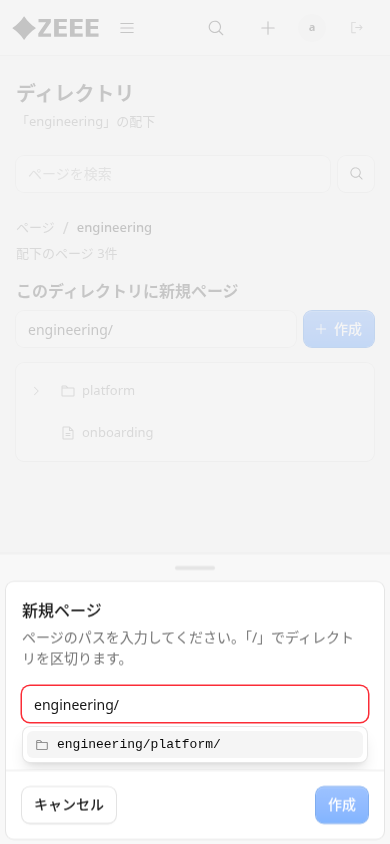
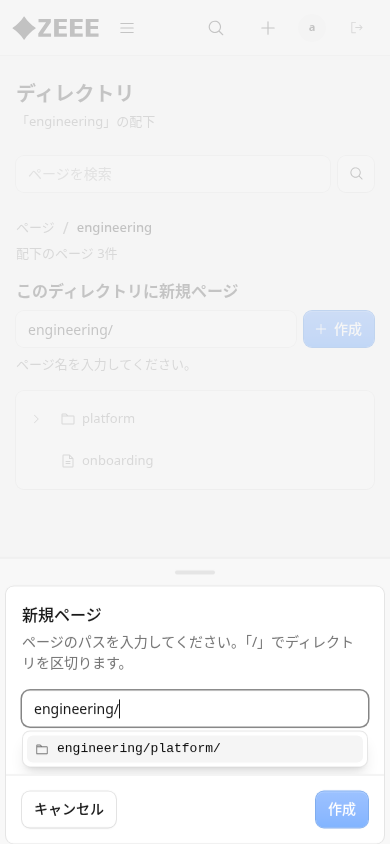
fix: avoid initial path validation error in create dialog

diff --git a/src/components/PagePathCreateForm.tsx b/src/components/PagePathCreateForm.tsx
@@ -1,4 +1,4 @@
-import { useEffect, useId, useState, type FormEvent } from 'react';
+import { useEffect, useId, useMemo, useState, type FormEvent } from 'react';
 import { useRouter } from '@void/react';
 import { Button, Text } from '@cloudflare/kumo';
 import { PlusIcon } from '@phosphor-icons/react';
@@ -25,23 +25,30 @@ export function PagePathCreateForm({
 }: Props) {
   const router = useRouter();
   const errorId = useId();
+  const hintId = useId();
   const [title, setTitle] = useState(defaultValue);
   const [busy, setBusy] = useState(false);
   const [error, setError] = useState('');
+  const [dirty, setDirty] = useState(false);
+  const [submitted, setSubmitted] = useState(false);
+  const validation = useMemo(
+    () => (title.trim() ? validatePagePath(title, pages) : null),
+    [title, pages],
+  );
 
   useEffect(() => {
     setTitle(defaultValue);
     setError('');
+    setDirty(false);
+    setSubmitted(false);
   }, [defaultValue]);
 
   async function submit(event: FormEvent<HTMLFormElement>) {
     event.preventDefault();
     if (busy) return;
+    setSubmitted(true);
     const validation = validatePagePath(title, pages);
-    if (!validation.ok) {
-      setError(validation.message);
-      return;
-    }
+    if (!validation.ok) return;
     setBusy(true);
     setError('');
     const result = await createPageByPath(validation.path);
@@ -52,6 +59,15 @@ export function PagePathCreateForm({
     }
     void router.visit(`/pages/${result.id}`);
   }
+
+  const showValidation = dirty || submitted;
+  const visibleError =
+    error || (showValidation && validation && !validation.ok ? validation.message : '');
+  const hint =
+    !visibleError && !dirty && !submitted && title.trim().endsWith('/')
+      ? 'ページ名を入力してください。'
+      : '';
+  const descriptionId = visibleError ? errorId : hint ? hintId : undefined;
 
   return (
     <form
@@ -65,6 +81,7 @@ export function PagePathCreateForm({
           value={title}
           onChange={(value) => {
             setTitle(value);
+            setDirty(true);
             if (error) setError('');
           }}
           pages={pages}
@@ -74,17 +91,21 @@ export function PagePathCreateForm({
           required
           maxLength={200}
           autoFocus={autoFocus}
-          invalid={Boolean(error)}
-          errorId={errorId}
+          invalid={Boolean(visibleError)}
+          errorId={descriptionId}
           className="min-w-0 flex-1"
         />
         <Button type="submit" variant="primary" icon={<PlusIcon size={14} />} loading={busy}>
           {submitLabel}
         </Button>
       </div>
-      {error ? (
+      {visibleError ? (
         <Text id={errorId} variant="error" size="sm" role="alert">
-          {error}
+          {visibleError}
+        </Text>
+      ) : hint ? (
+        <Text id={hintId} variant="secondary" size="sm">
+          {hint}
         </Text>
       ) : null}
     </form>

diff --git a/src/components/CreatePageDialog.tsx b/src/components/CreatePageDialog.tsx
@@ -16,10 +16,13 @@ export function CreatePageDialog({ open, onOpenChange, pages, initialDirectory =
   const router = useRouter();
   const formId = useId();
   const errorId = useId();
+  const hintId = useId();
   const inputRef = useRef<HTMLInputElement>(null);
   const [title, setTitle] = useState('');
   const [busy, setBusy] = useState(false);
   const [error, setError] = useState('');
+  const [dirty, setDirty] = useState(false);
+  const [submitted, setSubmitted] = useState(false);
   const validation = useMemo(
     () => (title.trim() ? validatePagePath(title, pages) : null),
     [title, pages],
@@ -30,12 +33,15 @@ export function CreatePageDialog({ open, onOpenChange, pages, initialDirectory =
     setTitle(initialPagePath(initialDirectory));
     setBusy(false);
     setError('');
+    setDirty(false);
+    setSubmitted(false);
     const timer = window.setTimeout(() => inputRef.current?.focus(), 0);
     return () => window.clearTimeout(timer);
   }, [open, initialDirectory]);
 
   async function createPage() {
     if (busy) return;
+    setSubmitted(true);
     const result = validatePagePath(title, pages);
     if (!result.ok) {
       setError(result.message);
@@ -53,7 +59,14 @@ export function CreatePageDialog({ open, onOpenChange, pages, initialDirectory =
     void router.visit(`/pages/${created.id}`);
   }
 
-  const visibleError = error || (validation && !validation.ok ? validation.message : '');
+  const showValidation = dirty || submitted;
+  const visibleError =
+    error || (showValidation && validation && !validation.ok ? validation.message : '');
+  const hint =
+    !visibleError && !dirty && !submitted && title.trim().endsWith('/')
+      ? 'ページ名を入力してください。'
+      : '';
+  const descriptionId = visibleError ? errorId : hint ? hintId : undefined;
 
   return (
     <LayerDialog.Root
@@ -82,6 +95,7 @@ export function CreatePageDialog({ open, onOpenChange, pages, initialDirectory =
               value={title}
               onChange={(value) => {
                 setTitle(value);
+                setDirty(true);
                 if (error) setError('');
               }}
               pages={pages}
@@ -90,11 +104,15 @@ export function CreatePageDialog({ open, onOpenChange, pages, initialDirectory =
               required
               maxLength={200}
               invalid={Boolean(visibleError)}
-              errorId={visibleError ? errorId : undefined}
+              errorId={descriptionId}
             />
             {visibleError ? (
               <Text id={errorId} variant="error" size="sm" role="alert">
                 {visibleError}
+              </Text>
+            ) : hint ? (
+              <Text id={hintId} variant="secondary" size="sm">
+                {hint}
               </Text>
             ) : null}
           </form>

diff --git a/tests/pagePathUi.test.ts b/tests/pagePathUi.test.ts
@@ -3,6 +3,7 @@ import { renderToStaticMarkup } from 'react-dom/server';
 import { describe, expect, it, vi } from 'vite-plus/test';
 import { PathSuggestionListbox, PagePathInput } from '../src/components/PagePathInput';
 import { PagePathBreadcrumb } from '../src/components/PagePathBreadcrumb';
+import { PagePathCreateForm } from '../src/components/PagePathCreateForm';
 import { PageTree } from '../src/components/PageTree';
 import { directorySuggestions, type PagePathPage } from '../src/shared/pagePath';
 
@@ -18,6 +19,7 @@ vi.mock('@void/react', async () => {
       children?: ReactNode;
       [key: string]: unknown;
     }) => h('a', { href, ...props }, children),
+    useRouter: () => ({ visit: () => {} }),
   };
 });
 
@@ -74,6 +76,34 @@ describe('PagePathBreadcrumb UI', () => {
     expect(html).toContain('href="/?dir=a%2Fb"');
     expect(html).toContain('aria-current="page"');
     expect(html).toContain('>c</span>');
+  });
+});
+
+describe('PagePathCreateForm UI', () => {
+  it('shows a neutral hint instead of an error for an untouched directory path', () => {
+    const html = renderToStaticMarkup(
+      createElement(PagePathCreateForm, {
+        pages: [page('p1', 'engineering/platform/api')],
+        defaultValue: 'engineering/platform/',
+        ariaLabel: 'このディレクトリに新規ページのパス',
+      }),
+    );
+
+    expect(html).toContain('ページ名を入力してください。');
+    expect(html).not.toContain('role="alert"');
+    expect(html).not.toContain('aria-invalid="true"');
+  });
+
+  it('does not show a hint or error for a complete untouched path', () => {
+    const html = renderToStaticMarkup(
+      createElement(PagePathCreateForm, {
+        pages: [page('p1', 'engineering/platform/api')],
+        defaultValue: 'engineering/platform/new',
+      }),
+    );
+
+    expect(html).not.toContain('ページ名を入力してください。');
+    expect(html).not.toContain('role="alert"');
   });
 });
 
